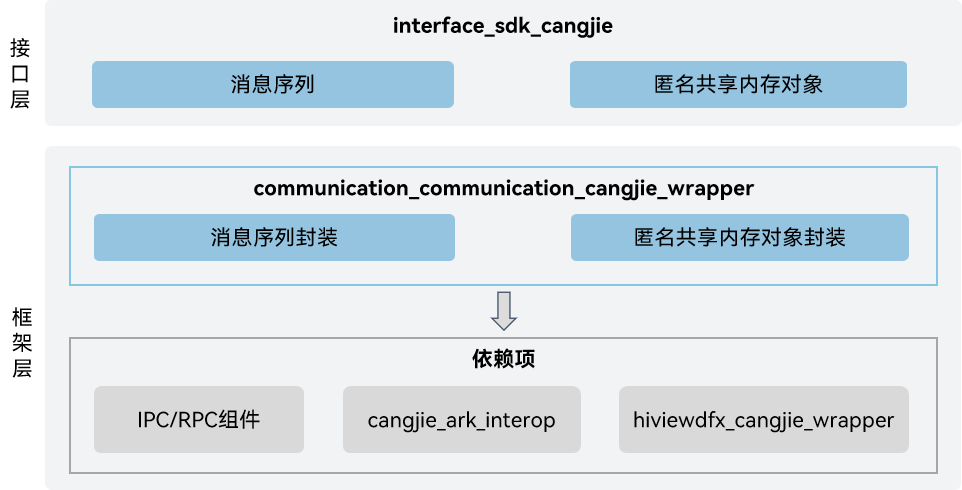
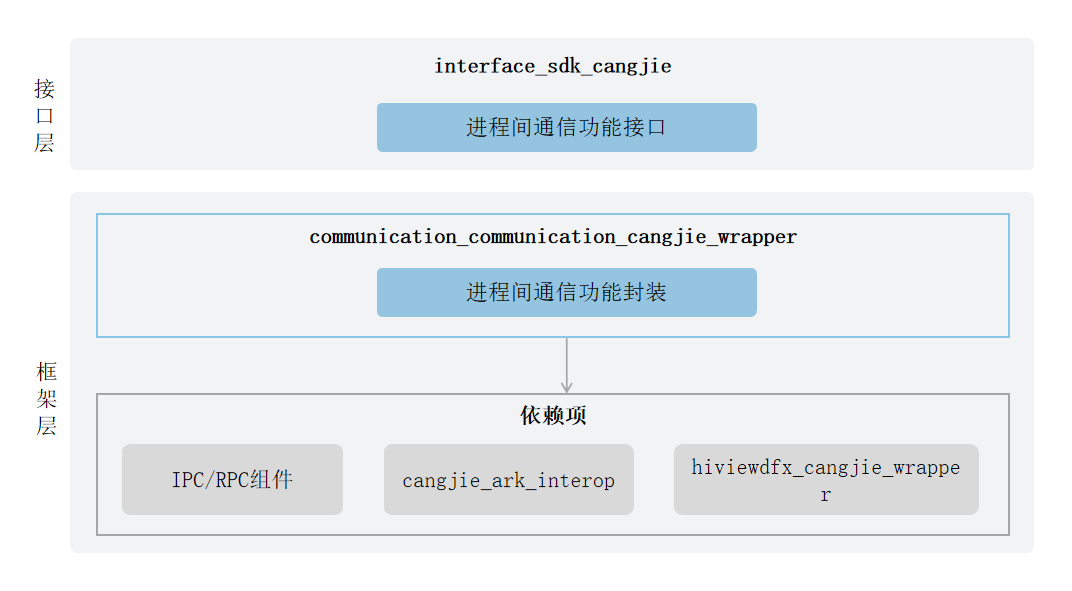
fix readme

Changed region(s): [[0.0, 0.3367, 0.9667, 0.9796], [0.0936, 0.0306, 0.9667, 0.2755], [0.0, 0.0612, 0.0624, 0.2755]]

diff --git a/README.md b/README.md
@@ -1,36 +1,38 @@
-# communication_cangjie_wrapper
+# Distributed Soft Bus Cangjie Wrapper
 
 ## Introduction
 
-The distributed soft bus subsystem is designed to provide communication-related capabilities for the OpenHarmony system. The currently open distributed soft bus Cangjie interface only supports standard devices.
+In the OpenHarmony platform, the distributed soft bus Cangjie wrapper provides developers with cross-process communication capabilities needed for application development using the Cangjie language. IPC (Inter-Process Communication) and RPC (Remote Procedure Call) mechanisms are used to implement cross-process communication. The former uses the Binder driver for cross-process communication within a device, while the latter uses the soft bus driver for cross-device cross-process communication. Typical IPC scenarios are in background services, where the application's background service provides cross-process service invocation capabilities through the IPC mechanism. Typical RPC usage scenarios are in multi-end collaboration, where multi-end collaboration provides remote interface invocation and data transmission capabilities through the RPC mechanism. Currently, the open distributed soft bus Cangjie interface only supports standard devices.
 
 ## System Architecture
 
 **Figure 1** Diagram of the Cangjie architecture of distributed soft bus
 
-![Diagram of the Cangjie architecture of distributed soft bus](figures/commounication_cangjie_wrapper_architecture_en.png)
+![Diagram of the Cangjie architecture of distributed soft bus](figures/communication_cangjie_wrapper_architecture_en.png)
 
 As shown in the architecture diagram:
 
-Interface:
+Interface layer:
 
-- MessageSequence: Provides the data format used for communication.
-- Ashmem: Provides methods related to anonymous shared memory objects.
+Cross-process communication functional interface: API capabilities for cross-process communication provided to developers, mainly including the following functions:
 
-Framework:
+- Message sequence: During the RPC or IPC process, the sender can use the write methods provided by MessageSequence to write the data to be sent into the object in a specific format. The receiver can use the read methods provided by MessageSequence to read data in a specific format from the object. Data formats include: basic types and arrays, IPC objects, interface descriptors, and custom serialized objects.
+- Anonymous shared memory object: Provides methods related to anonymous shared memory objects, including creating, closing, mapping and unmapping Ashmem, reading data from Ashmem and writing data, obtaining Ashmem size, and setting Ashmem protection.
 
-- MessageSequence wrapper: Implementation encapsulation of Cangjie MessageSequence, providing MessageSequence capabilities.
-- Ashmem wrapper: Implementation encapsulation of Cangjie Ashmem, providing Ashmem capabilities.
+Framework layer:
 
-- Explanation of Dependencies in the Architecture Diagram:
+- Cross-process communication function encapsulation: Implementation encapsulation of Cangjie cross-process communication, providing message sequence and anonymous shared memory object capabilities.
 
-- communication_ipc: Responsible for providing basic RPC functions, and encapsulating the C Language interface to provide Cangjie for interoperability.
-- cangjie_ark_interop: Responsible for providing Cangjie APILevel class definitions, which are used to annotate APIs, as well as providing the definition of BusinessException class that is thrown to users.
-- hiviewdfx_cangjie_wrapper: Responsible for providing logging interfaces, which are used to print logs at key points in the execution path.
+Explanation of dependent components introduced in the architecture diagram:
+
+- IPC/RPC component: Responsible for providing basic RPC functions, encapsulating C language interfaces for Cangjie interoperability.
+- cangjie_ark_interop: Responsible for providing Cangjie annotation class definitions for API annotation, and providing BusinessException exception class definitions thrown to users.
+- hiviewdfx_cangjie_wrapper: Responsible for providing log interfaces for printing logs at critical paths.
 
 ## Directory Structure
 
-The DSoftBus directory structure is as follows:
+The main code directory structure of distributed soft bus Cangjie is as follows:
+
 
 ```
 foundation/communication/communication_cangjie_wrapper

diff --git a/README_zh.md b/README_zh.md
@@ -2,7 +2,7 @@
 
 ## 简介
 
-在OpenHarmnoy平台上，分布式软总线仓颉封装为开发者提供了使用仓颉语言进行应用开发时所需的跨进程通信相关的能力。当前开放的分布式软总线仓颉接口仅支持standard设备。
+在OpenHarmony平台上，分布式软总线仓颉封装为开发者提供了使用仓颉语言进行应用开发时所需的跨进程通信相关的能力。IPC（Inter-Process Communication）与RPC（Remote Procedure Call）机制用于实现跨进程通信，不同的是前者使用Binder驱动，用于设备内的跨进程通信，而后者使用软总线驱动，用于跨设备跨进程通信。IPC典型场景在后台服务，应用的后台服务通过IPC机制提供跨进程的服务调用能力，RPC典型使用场景在多端协同，多端协同通过RPC机制提供远端接口调用与数据传递能力。当前开放的分布式软总线仓颉接口仅支持standard设备。
 
 ## 系统架构
 
@@ -10,17 +10,16 @@
 
 ![分布式软总线仓颉架构图](figures/communication_cangjie_wrapper_architecture.png)
 
-如架构图所示：
-
 接口层：
 
-- 消息序列：提供基础类型及数组、IPC对象、接口描述符和自定义序列化对象等用来通信的数据格式。
+进程间通信功能接口：面向开发者提供的进程间通信的API能力，主要包括以下功能：
+
+- 消息序列：在RPC或IPC过程中，发送方可以使用MessageSequence提供的写方法，将待发送的数据以特定格式写入该对象。接收方可以使用MessageSequence提供的读方法从该对象中读取特定格式的数据。数据格式包括：基础类型及数组、IPC对象、接口描述符和自定义序列化对象。
 - 匿名共享内存对象：提供与匿名共享内存对象相关的方法，包括创建、关闭、映射和取消映射Ashmem、从Ashmem读取数据和写入数据、获取Ashmem大小、设置Ashmem保护。
 
 框架层：
 
-- 消息序列封装：仓颉消息序列的实现封装，提供消息序列能力。
-- 匿名共享内存对象封装：仓颉匿名共享内存对象的实现封装，提供匿名共享内存对象能力。
+- 进程间通信功能封装：仓颉进程间通信的实现封装，提供消息序列以及匿名共享内存对象的能力。
 
 架构图中的依赖部件引入说明：
 
@@ -55,15 +54,15 @@ foundation/communication/communication_cangjie_wrapper
 RPC相关API请参见[RPC通信](https://gitcode.com/openharmony-sig/arkcompiler_cangjie_ark_interop/blob/master/doc/API_Reference/source_zh_cn/apis/IPCKit/cj-apis-rpc.md)，相关指导请参见[RPC开发指南](https://gitcode.com/openharmony-sig/arkcompiler_cangjie_ark_interop/blob/master/doc/Dev_Guide/source_zh_cn/ipc/cj-ipc-rpc-overview.md)。
 
 ## 约束
+- 单个设备上跨进程通信时，传输的数据量最大约为1MB，过大的数据量请使用匿名共享内存。
 
-与ArkTS提供的API能力相比：
+- 不支持把跨设备的Proxy对象传递回该Proxy对象所指向的Stub对象所在的设备。
 
-- IPC暂不支持以下功能：
+- 与ArkTS提供的API能力相比，暂不支持以下功能：
   - 实现IRemoteObject代理对象。
   - 获取IPC上下文信息，包括获取UID和PID、获取本端和对端设备ID、检查接口调用是否在同一设备上。
   - 实现远程对象。
 
-- 暂不支持蓝牙、WLAN功能。
 
 ## 参与贡献
 
